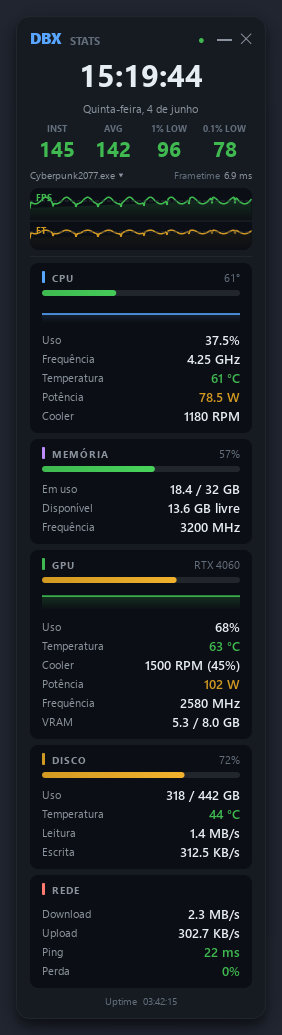
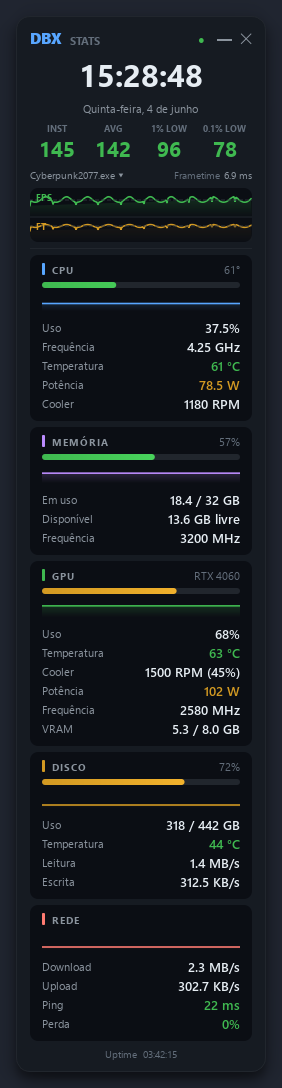
Graficos de linha em RAM, Disco e Rede; zerar reseta lows e grafico de FPS

diff --git a/src/dbxstats/ui/main_panel.py b/src/dbxstats/ui/main_panel.py
@@ -173,7 +173,7 @@ class PanelWindow(QWidget):
             self.cpu.add_row(k, lbl)
         lay.addWidget(self.cpu)
 
-        self.ram = SectionCard("Memória", theme.RAM)
+        self.ram = SectionCard("Memória", theme.RAM, with_spark=True)
         for k, lbl in [("used", "Em uso"), ("avail", "Disponível"), ("freq", "Frequência")]:
             self.ram.add_row(k, lbl)
         lay.addWidget(self.ram)
@@ -184,13 +184,13 @@ class PanelWindow(QWidget):
             self.gpu.add_row(k, lbl)
         lay.addWidget(self.gpu)
 
-        self.disk = SectionCard("Disco", theme.DISK)
+        self.disk = SectionCard("Disco", theme.DISK, with_spark=True, fixed_max=None)
         for k, lbl in [("used", "Uso"), ("temp", "Temperatura"),
                        ("read", "Leitura"), ("write", "Escrita")]:
             self.disk.add_row(k, lbl)
         lay.addWidget(self.disk)
 
-        self.net = SectionCard("Rede", theme.NET, with_bar=False)
+        self.net = SectionCard("Rede", theme.NET, with_bar=False, with_spark=True, fixed_max=None)
         for k, lbl in [("dl", "Download"), ("ul", "Upload"), ("ping", "Ping"), ("loss", "Perda")]:
             self.net.add_row(k, lbl)
         lay.addWidget(self.net)
@@ -277,6 +277,7 @@ class PanelWindow(QWidget):
 
         ram_pct = d.get("ram_pct", 0.0)
         self.ram.set_bar(ram_pct, theme.load_color(ram_pct))
+        self.ram.push_spark(ram_pct)
         self.ram.set("used", f"{d['ram_used']:.1f} / {d['ram_total']:.0f} GB")
         self.ram.set("avail", f"{d['ram_avail']:.1f} GB livre")
         rf = d.get("ram_freq")
@@ -308,6 +309,7 @@ class PanelWindow(QWidget):
 
         disk_pct = d.get("disk_pct", 0.0)
         self.disk.set_bar(disk_pct, theme.load_color(disk_pct))
+        self.disk.push_spark(d["disk_r"] + d["disk_w"])
         self.disk.set_hint(f"{disk_pct:.0f}%")
         self.disk.set("used", f"{d['disk_used']:.0f} / {d['disk_total']:.0f} GB")
         nt = d.get("nvme_temp")
@@ -315,6 +317,7 @@ class PanelWindow(QWidget):
         self.disk.set("read", _fmt_bytes(d["disk_r"]))
         self.disk.set("write", _fmt_bytes(d["disk_w"]))
 
+        self.net.push_spark(d["net_dl"] + d["net_ul"])
         self.net.set("dl", _fmt_bytes(d["net_dl"]))
         self.net.set("ul", _fmt_bytes(d["net_ul"]))
         ping = d.get("ping_ms")

diff --git a/src/dbxstats/sensors/fps.py b/src/dbxstats/sensors/fps.py
@@ -26,6 +26,7 @@ class FpsEngine:
         self._lock = threading.Lock()
         self._status = ""
         self._proc: subprocess.Popen | None = None
+        self._reset_requested = False
 
     @property
     def status(self) -> str:
@@ -41,6 +42,13 @@ class FpsEngine:
     def graph_buffer(self, pid: int) -> list:
         with self._lock:
             return list(self._graph.get(pid, []))
+
+    def reset(self) -> None:
+        self._reset_requested = True
+        with self._lock:
+            self._by_pid.clear()
+            self._sc.clear()
+            self._graph.clear()
 
     def start(self) -> None:
         threading.Thread(target=self._loop, name="fps", daemon=True).start()
@@ -142,6 +150,14 @@ class FpsEngine:
         need = max(col_app, col_pid, col_sc, col_t, col_ms, col_disp)
 
         while proc.poll() is None:
+            if self._reset_requested:
+                self._reset_requested = False
+                frames.clear()
+                last_wall.clear()
+                with self._lock:
+                    self._by_pid.clear()
+                    self._sc.clear()
+                    self._graph.clear()
             line = f.readline()
             if not line:
                 time.sleep(0.005)

diff --git a/src/dbxstats/ui/widgets.py b/src/dbxstats/ui/widgets.py
@@ -79,7 +79,7 @@ class ProgressBar(QWidget):
 
 class Sparkline(QWidget):
     def __init__(self, color: str, parent: QWidget | None = None,
-                 maxlen: int = 80, fixed_max: float | None = None, height: int = 22) -> None:
+                 maxlen: int = 80, fixed_max: float | None = None, height: int = 18) -> None:
         super().__init__(parent)
         self._color = QColor(color)
         self._data: deque[float] = deque(maxlen=maxlen)

diff --git a/src/dbxstats/ui/fps_graph.py b/src/dbxstats/ui/fps_graph.py
@@ -12,7 +12,7 @@ class FpsGraph(QWidget):
     def __init__(self, parent: QWidget | None = None) -> None:
         super().__init__(parent)
         self._buf: list[float] = []
-        self.setFixedHeight(62)
+        self.setFixedHeight(54)
         self.setSizePolicy(QSizePolicy.Policy.Expanding, QSizePolicy.Policy.Fixed)
 
     def set_buffer(self, buf) -> None:

diff --git a/src/dbxstats/app.py b/src/dbxstats/app.py
@@ -169,6 +169,7 @@ class App:
 
     def clear_stats(self) -> None:
         self.stats.clear()
+        self.fps.reset()
 
     def quit(self) -> None:
         self.collector.stop()
